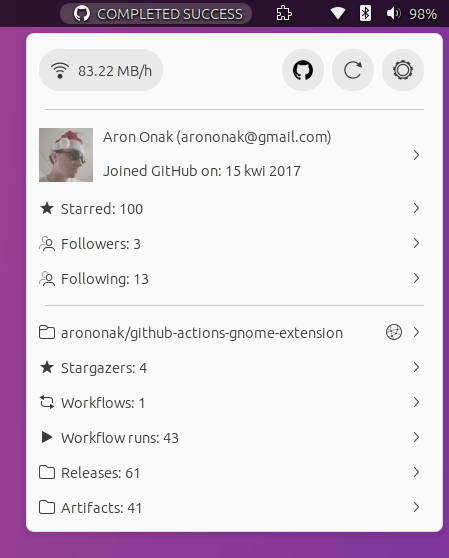
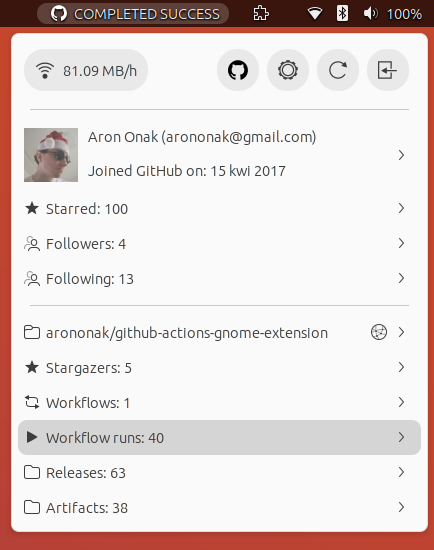
State refactor & added logout button

diff --git a/github-actions@arononak.github.io/status_bar_indicator.js b/github-actions@arononak.github.io/status_bar_indicator.js
@@ -12,6 +12,7 @@ const _ = ExtensionUtils.gettext;
 const utils = Me.imports.utils;
 const widgets = Me.imports.widgets;
 const repository = Me.imports.data_repository;
+const cliInterface = Me.imports.local_cli_interface;
 
 const StatusBarState = {
     LOADING: () => 'Loading',
@@ -29,7 +30,7 @@ var StatusBarIndicator = class StatusBarIndicator extends PanelMenu.Button {
         super();
 
         this.refreshCallback = refreshCallback;
-        
+
         this.workflowUrl = "";
         this.repositoryUrl = "";
         this.userUrl = "";
@@ -58,12 +59,12 @@ var StatusBarIndicator = class StatusBarIndicator extends PanelMenu.Button {
         });
 
         this.icon = new St.Icon({ style_class: 'system-status-icon' });
-        this.setStatusIconState('in_progress');
-
         this.topBox = new St.BoxLayout({ style_class: 'panel-status-menu-box' });
         this.topBox.add_child(this.icon);
         this.topBox.add_child(this.label);
         this.add_child(this.topBox);
+
+        this.setStatusIconState('in_progress');
     }
 
     setStatusIconState(state) {
@@ -93,14 +94,20 @@ var StatusBarIndicator = class StatusBarIndicator extends PanelMenu.Button {
     setStatusBarState(state) {
         this.state = state;
 
-        var loadingText = StatusBarState.LOADING();
+        const loadingText = StatusBarState.LOADING();
 
         switch (state) {
             case StatusBarState.NOT_LOGGED:
+                this.label.set_text(StatusBarState.NOT_LOGGED());
+                this.setStatusIconState('in_progress');
                 break;
             case StatusBarState.LOGGED_NOT_CHOOSED_REPO:
+                this.label.set_text(StatusBarState.LOGGED_NOT_CHOOSED_REPO());
+                this.setStatusIconState('in_progress');
                 break;
             case StatusBarState.LOADING:
+                this.label.set_text(StatusBarState.LOADING());
+
                 this.userMenuItem?.setHeaderItemText(loadingText)
                 this.starredMenuItem?.setHeaderItemText(loadingText)
                 this.followersMenuItem?.setHeaderItemText(loadingText);
@@ -111,8 +118,7 @@ var StatusBarIndicator = class StatusBarIndicator extends PanelMenu.Button {
                 this.runsMenuItem?.setHeaderItemText(loadingText);
                 this.releasesMenuItem?.setHeaderItemText(loadingText);
                 this.artifactsMenuItem?.setHeaderItemText(loadingText);
-                
-                this.label.set_text(loadingText);
+
                 this.twoFactorItem?.label.set_text(loadingText);
                 this.minutesItem?.label.set_text(loadingText);
                 this.packagesItem?.label.set_text(loadingText);
@@ -121,9 +127,15 @@ var StatusBarIndicator = class StatusBarIndicator extends PanelMenu.Button {
 
                 break;
             case StatusBarState.LOGGED:
+                this.label.set_text(StatusBarState.LOGGED());
                 break;
         }
     }
+
+    setStatusBarStateLoading = () => this.setStatusBarState(StatusBarState.LOADING);
+    setStatusBarStateNotLogged = () => this.setStatusBarState(StatusBarState.NOT_LOGGED);
+    setStatusBarStateLoggedNotChoosedRepo = () => this.setStatusBarState(StatusBarState.LOGGED_NOT_CHOOSED_REPO);
+    setStatusBarStateLogged = () => this.setStatusBarState(StatusBarState.LOGGED);
 
     initPopupMenu(isLogged) {
         this.box = new St.BoxLayout({
@@ -155,38 +167,54 @@ var StatusBarIndicator = class StatusBarIndicator extends PanelMenu.Button {
         this.box.add(this.leftBox);
         this.box.add(this.rightBox);
 
-        /// Network transfer
-        this.networkContainer = new St.BoxLayout();
-        this.networkButton = new St.Button({ style_class: 'button github-actions-button-action' });
-        this.networkButton.connect('clicked', () => ExtensionUtils.openPrefs());
-        this.networkIcon = new St.Icon({ icon_name: 'network-wireless-symbolic', icon_size: 20 });
-        this.networkLabel = new St.Label();
-        this.networkLabel.style = 'margin-left: 8px; margin-top: 2px;';
-        this.networkContainer.add(this.networkIcon);
-        this.networkContainer.add(this.networkLabel);
-        this.networkButton.set_child(this.networkContainer);
-        this.leftBox.add(this.networkButton);
-
         this.bottomItem = new PopupMenu.PopupBaseMenuItem({ reactive: false });
         this.bottomItem.remove_all_children(); // Remove left margin from non visible PopupMenuItem icon
         this.bottomItem.actor.add_actor(this.box);
         this.menu.addMenuItem(this.bottomItem);
+
+        /// Network transfer
+        if (isLogged == true) {
+            this.networkContainer = new St.BoxLayout();
+            this.networkButton = new St.Button({ style_class: 'button github-actions-button-action' });
+            this.networkButton.connect('clicked', () => ExtensionUtils.openPrefs());
+            this.networkIcon = new St.Icon({ icon_name: 'network-wireless-symbolic', icon_size: 20 });
+            this.networkLabel = new St.Label();
+            this.networkLabel.style = 'margin-left: 8px; margin-top: 2px;';
+            this.networkContainer.add(this.networkIcon);
+            this.networkContainer.add(this.networkLabel);
+            this.networkButton.set_child(this.networkContainer);
+            this.leftBox.add(this.networkButton);
+        }
 
         /// Bored
         this.boredButton = widgets.createRoundButton({ icon: new St.Icon({ gicon: widgets.createAppGioIcon(widgets.AppIconType.WHITE) }) });
         this.boredButton.connect('clicked', () => utils.openUrl('https://api.github.com/octocat'));
         this.rightBox.add_actor(this.boredButton);
 
-        /// Refresh
-        this.refreshButton = widgets.createRoundButton({ iconName: 'view-refresh-symbolic' });
-        this.refreshButton.connect('clicked', () => this.refreshCallback());
-        this.rightBox.add_actor(this.refreshButton);
-
         /// Settings
         this.settingsItem = widgets.createRoundButton({ iconName: 'system-settings-symbolic' });
         this.settingsItem.connect('clicked', () => ExtensionUtils.openPrefs());
         this.rightBox.add_actor(this.settingsItem);
 
+        /// Refresh
+        this.refreshButton = widgets.createRoundButton({ iconName: 'view-refresh-symbolic' });
+        this.refreshButton.connect('clicked', () => this.refreshCallback());
+        this.rightBox.add_actor(this.refreshButton);
+
+        if (isLogged == true) {
+            /// Logout{
+            this.logoutButton = widgets.createRoundButton({ iconName: 'system-log-out-symbolic' });
+            this.logoutButton.connect('clicked', async () => {
+                const status = await cliInterface.logout();
+
+                if (status == true) {
+                    this.refreshCallback();
+                }
+            });
+            this.rightBox.add_actor(this.logoutButton);
+        }
+
+        /// Logged Menu
         if (isLogged == true) {
             this.menu.addMenuItem(new PopupMenu.PopupSeparatorMenuItem());
             this.initLoggedMenu();

diff --git a/github-actions@arononak.github.io/local_cli_interface.js b/github-actions@arononak.github.io/local_cli_interface.js
@@ -31,6 +31,34 @@ async function isLogged() {
     });
 }
 
+async function logout() {
+    return new Promise((resolve, reject) => {
+        try {
+            let [, stdout, stderr, status] = GLib.spawn_command_line_sync('gh auth logout --hostname github.com');
+
+            if (status !== 0) {
+                if (stderr instanceof Uint8Array) {
+                    stderr = ByteArray.toString(stderr);
+                    print(stderr);
+                }
+
+                resolve(false);
+                return;
+            }
+
+            if (stdout instanceof Uint8Array) {
+                stdout = ByteArray.toString(stdout);
+                print(stdout);
+            }
+
+            resolve(true);
+        } catch (e) {
+            logError(e);
+            resolve(false);
+        }
+    });
+}
+
 async function downloadArtifact(downloadUrl, filename) {
     const logged = await isLogged();
 

diff --git a/github-actions@arononak.github.io/extension.js b/github-actions@arononak.github.io/extension.js
@@ -112,7 +112,11 @@ async function coldRefresh(settings, indicator) {
 
 async function hotRefresh(settings, indicator) {
     try {
-        if (indicator.isLogged == false) {
+        const isLogged = await repository.isLogged();
+        indicator.refreshAuthState(isLogged);
+        
+        if (isLogged == false) {
+            indicator.setStatusBarStateNotLogged();
             return;
         }
 
@@ -206,9 +210,6 @@ class Extension {
 
     async refresh() {
         try {
-            const isLogged = await repository.isLogged();
-            this.indicator.refreshAuthState(isLogged);
-
             coldRefresh(this.settings, this.indicator);
             hotRefresh(this.settings, this.indicator);
         } catch (e) {

diff --git a/github-actions@arononak.github.io/data_repository.js b/github-actions@arononak.github.io/data_repository.js
@@ -2,7 +2,7 @@
 
 const ExtensionUtils = imports.misc.extensionUtils;
 const Me = ExtensionUtils.getCurrentExtension();
-const repository = Me.imports.local_cli_data_repository;
+const repository = Me.imports.local_cli_interface;
 
 var isLogged = async () =>
     repository.isLogged();
